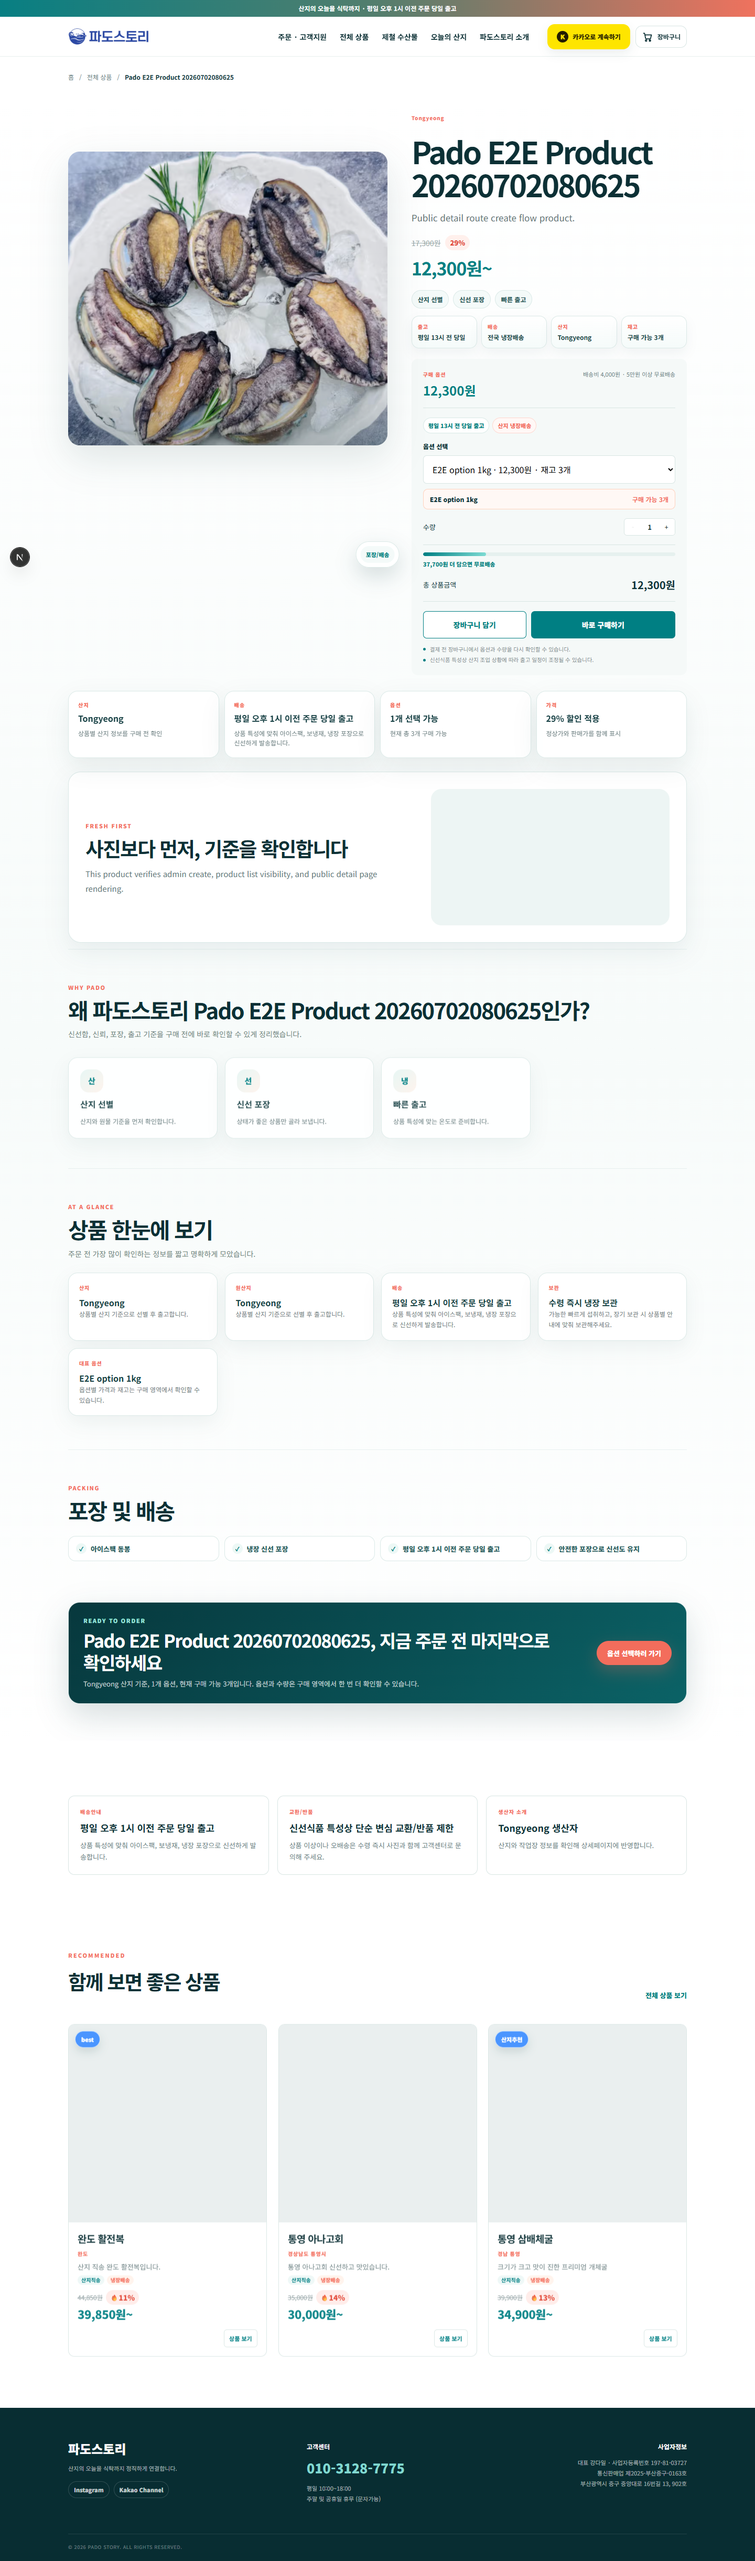
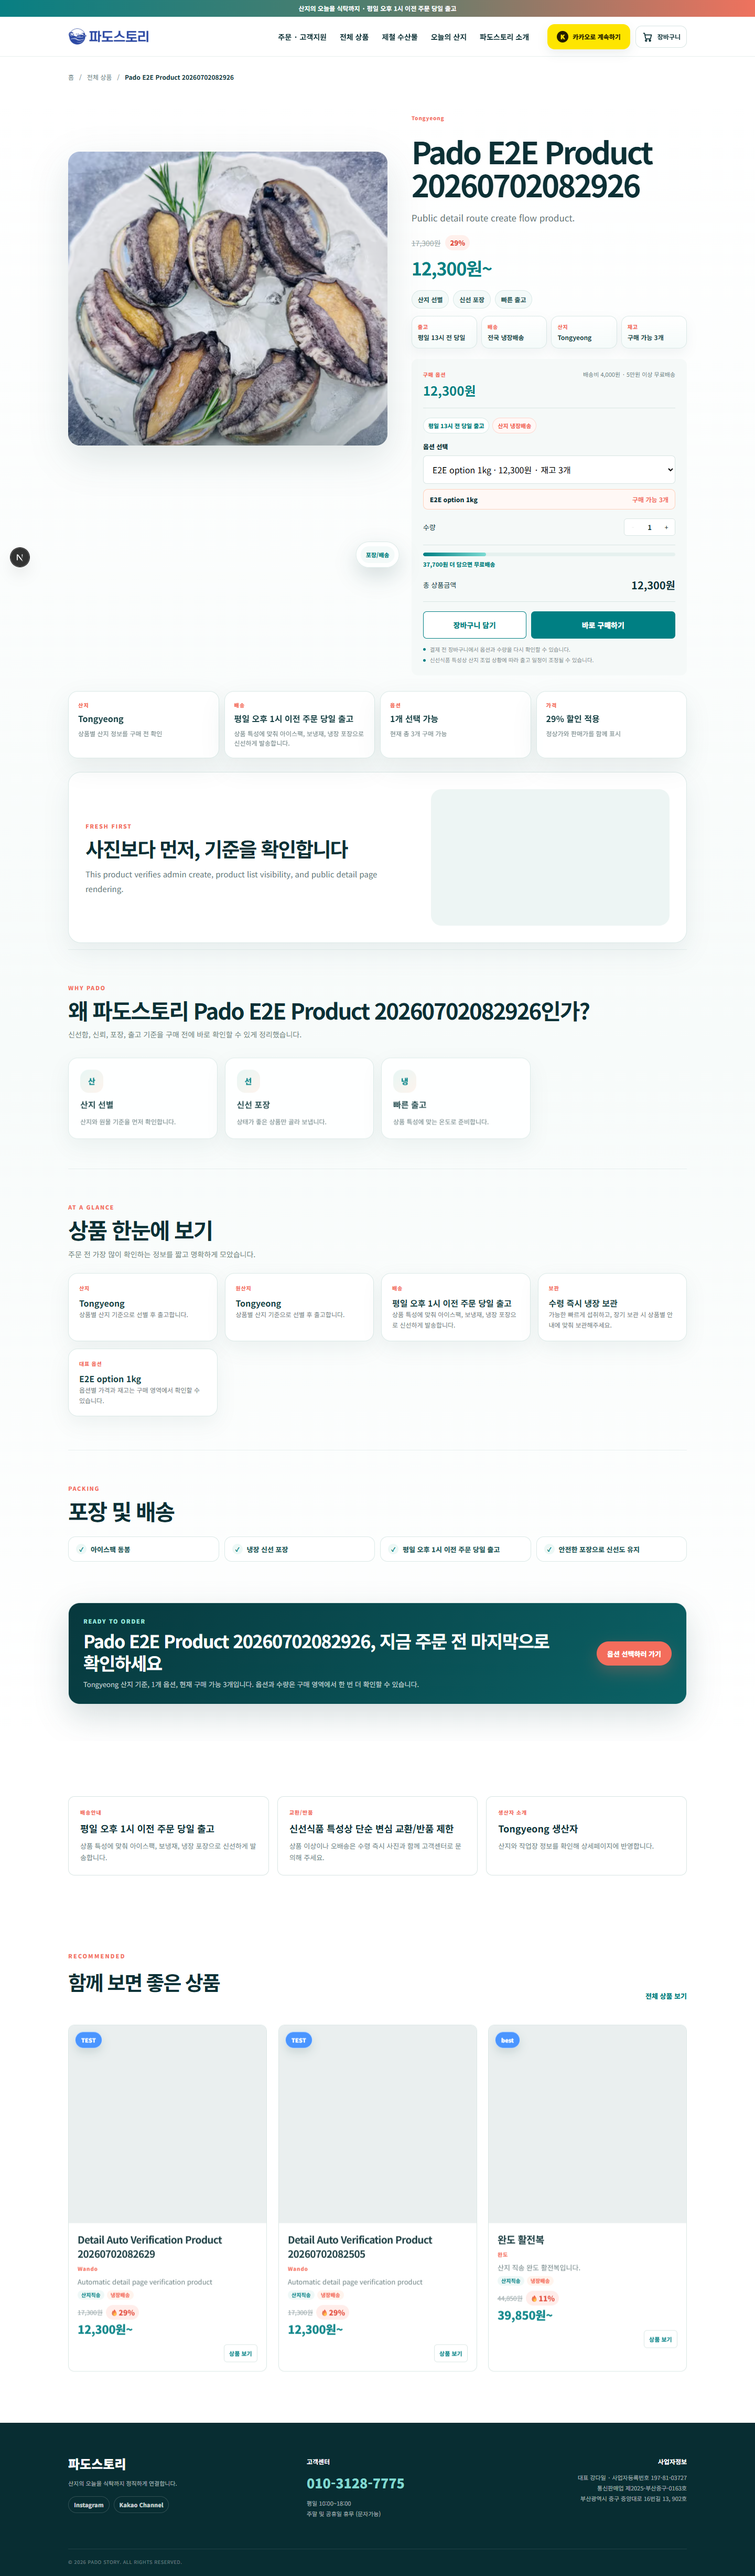
Allow admin preview for private products

diff --git a/app/products/[slug]/page.tsx b/app/products/[slug]/page.tsx
@@ -6,7 +6,9 @@ import { ProductCard } from "@/components/products/ProductCard";
 import { ProductDetailTemplate } from "@/components/products/ProductDetailTemplate";
 import { StickyPurchaseBar } from "@/components/products/StickyPurchaseBar";
 import type { Product } from "@/data/products";
+import { getAdminSession } from "@/lib/auth/admin";
 import { getProductBySlug, getProducts } from "@/lib/products";
+import { isPublicProductSlug } from "@/lib/products/public-slug";
 
 export const dynamic = "force-dynamic";
 
@@ -74,7 +76,8 @@ function JsonLdScript({ data }: { data: Record<string, unknown> }) {
 
 export async function generateMetadata({ params }: { params: Promise<{ slug: string }> }): Promise<Metadata> {
   const { slug } = await params;
-  const product = await getProductBySlug(slug);
+  const adminSession = await getAdminSession();
+  const product = await getProductBySlug(slug, { includePrivate: adminSession.ok });
 
   if (!product) {
     return { title: "상품을 찾을 수 없습니다" };
@@ -83,10 +86,12 @@ export async function generateMetadata({ params }: { params: Promise<{ slug: str
   const description = buildSeoDescription(product);
   const productPath = `/products/${product.slug}`;
   const title = `${product.name} | ${product.origin} 산지직송 수산물`;
+  const isPrivatePreview = adminSession.ok && (!product.isActive || !isPublicProductSlug(product.slug));
 
   return {
     title,
     description,
+    robots: isPrivatePreview ? { index: false, follow: false } : undefined,
     alternates: {
       canonical: productPath
     },
@@ -105,10 +110,42 @@ export async function generateMetadata({ params }: { params: Promise<{ slug: str
   };
 }
 
+function AdminPreviewNotice({ product }: { product: Product }) {
+  const reason = !product.isActive ? "숨김 상태" : "검증 상태";
+  return (
+    <div className="shell admin-product-preview-notice" role="status">
+      <strong>관리자 미리보기</strong>
+      <span>이 상품은 현재 {reason}입니다. 관리자만 볼 수 있으며 일반 고객 상품 목록에는 노출되지 않습니다.</span>
+      <a href="/admin/products">관리자 목록으로 돌아가기</a>
+    </div>
+  );
+}
+
+function AdminProductUnavailable({ slug }: { slug: string }) {
+  return (
+    <div className="page-wrap">
+      <div className="shell admin-product-unavailable">
+        <strong>관리자 확인 필요</strong>
+        <h1>상품 상세페이지를 열 수 없습니다.</h1>
+        <p>
+          요청한 slug `{slug}` 상품을 찾지 못했습니다. 상품이 삭제되었거나 slug가 변경되었을 수 있습니다.
+          관리자 상품 목록에서 실제 slug를 다시 확인해주세요.
+        </p>
+        <a className="button teal" href="/admin/products">관리자 상품 목록</a>
+      </div>
+    </div>
+  );
+}
+
 export default async function ProductDetailPage({ params }: { params: Promise<{ slug: string }> }) {
   const { slug } = await params;
-  const product = await getProductBySlug(slug);
-  if (!product) notFound();
+  const adminSession = await getAdminSession();
+  const product = await getProductBySlug(slug, { includePrivate: adminSession.ok });
+  if (!product) {
+    if (adminSession.ok) return <AdminProductUnavailable slug={slug} />;
+    notFound();
+  }
+  const isPrivatePreview = adminSession.ok && (!product.isActive || !isPublicProductSlug(product.slug));
 
   const recommended = (await getProducts())
     .filter((item) => item.slug !== product.slug)
@@ -117,6 +154,7 @@ export default async function ProductDetailPage({ params }: { params: Promise<{ 
     <div className="detail-page">
       <JsonLdScript data={buildProductJsonLd(product)} />
       <JsonLdScript data={buildBreadcrumbJsonLd(product)} />
+      {isPrivatePreview && <AdminPreviewNotice product={product} />}
 
       <div className="shell breadcrumb">
         <Link href="/">홈</Link>

diff --git a/app/globals.css b/app/globals.css
@@ -263,3 +263,5 @@
 @media(max-width:700px){.product-admin-table td.admin-empty-filter-cell{display:block}.product-admin-table td.admin-empty-filter-cell:before{content:""}.admin-empty-filter{padding:28px 12px}.admin-empty-filter button{width:100%;min-height:38px}}
 .admin-submit-debug{margin:0 18px 18px;padding:13px 14px;border:1px dashed #87c9c4;border-radius:12px;background:#f6fffd;color:#173f43;font-size:11px}.admin-submit-debug strong{display:block;margin-bottom:9px;color:var(--teal);font-size:12px}.admin-submit-debug dl{display:grid;grid-template-columns:repeat(3,minmax(0,1fr));gap:7px;margin:0}.admin-submit-debug div{min-width:0;border:1px solid #d9eeeb;border-radius:8px;background:#fff;padding:7px}.admin-submit-debug div.wide{grid-column:1/-1}.admin-submit-debug dt{color:#73898a;font-weight:900}.admin-submit-debug dd{margin:3px 0 0;overflow-wrap:anywhere;font-weight:800}
 .admin-duplicate-slug-action{display:flex;align-items:center;justify-content:space-between;gap:12px;margin-top:10px;padding:12px;border:1px solid #ffd2be;border-radius:10px;background:#fff8f5;color:#a84425}.admin-duplicate-slug-action span{font-size:12px;font-weight:850;line-height:1.45}.admin-duplicate-slug-action .button{flex:none;padding:10px 13px}.admin-detail-link{width:max-content;margin-top:10px;padding:10px 13px}.admin-actions a{display:inline-flex;align-items:center;justify-content:center;border:1px solid var(--line);border-radius:7px;background:#fff;color:var(--teal);padding:7px 9px;font-size:11px;font-weight:900}
+.admin-product-preview-notice{display:flex;align-items:center;gap:12px;margin-top:18px;margin-bottom:8px;border:1px solid #ffd2be;border-radius:12px;background:#fff8f5;color:#8f3f25;padding:13px 15px}.admin-product-preview-notice strong{flex:none;color:#bd512f;font-size:12px;font-weight:950}.admin-product-preview-notice span{font-size:12px;font-weight:800;line-height:1.45}.admin-product-preview-notice a{margin-left:auto;border:1px solid #ffd2be;border-radius:999px;background:#fff;color:#a84425;padding:8px 11px;font-size:11px;font-weight:950}.admin-product-unavailable{display:grid;gap:13px;margin-top:70px;margin-bottom:90px;border:1px solid #dbe9e7;border-radius:18px;background:#fff;padding:34px;box-shadow:0 18px 44px rgba(7,48,53,.08)}.admin-product-unavailable strong{color:var(--coral);font-size:12px;font-weight:950}.admin-product-unavailable h1{margin:0;font-size:30px;letter-spacing:-.04em}.admin-product-unavailable p{max-width:680px;margin:0;color:var(--muted);font-size:14px;line-height:1.8}.admin-product-unavailable .button{width:max-content}
+@media(max-width:700px){.admin-product-preview-notice{align-items:flex-start;flex-direction:column;margin-top:12px;padding:12px}.admin-product-preview-notice a{margin-left:0;width:100%;text-align:center}.admin-product-unavailable{margin-top:36px;padding:24px}.admin-product-unavailable h1{font-size:24px}.admin-product-unavailable .button{width:100%}}

diff --git a/lib/products.ts b/lib/products.ts
@@ -1,6 +1,7 @@
 import { products as fallbackProducts, type Product, type ProductOption } from "@/data/products";
 import { normalizeProductDetailInput } from "@/lib/products/detail";
 import { isPublicProductSlug } from "@/lib/products/public-slug";
+import { createAdminClient, hasSupabaseAdminEnv } from "@/lib/supabase/admin";
 import { createClient } from "@/lib/supabase/server";
 
 type ProductRow = {
@@ -107,18 +108,42 @@ export async function getProducts(): Promise<Product[]> {
   }
 }
 
-export async function getProductBySlug(slug: string): Promise<Product | undefined> {
-  if (!isPublicProductSlug(slug)) return undefined;
+export async function getProductBySlug(slug: string, options: { includePrivate?: boolean } = {}): Promise<Product | undefined> {
+  const includePrivate = Boolean(options.includePrivate);
+  if (!includePrivate && !isPublicProductSlug(slug)) return undefined;
   if (!hasSupabaseEnv()) return fallbackProducts.find((product) => product.slug === slug);
 
   try {
+    if (includePrivate && hasSupabaseAdminEnv()) {
+      const supabase = createAdminClient();
+      const { data: productRow, error: productError } = await supabase
+        .from("products")
+        .select("*")
+        .eq("slug", slug)
+        .maybeSingle();
+
+      if (productError || !productRow) return undefined;
+
+      const { data: optionRows } = await supabase
+        .from("product_options")
+        .select("id, name, price_delta, stock")
+        .eq("product_id", productRow.id)
+        .order("created_at", { ascending: true });
+
+      return toProduct({ ...(productRow as ProductRow), product_options: (optionRows ?? []) as OptionRow[] });
+    }
+
     const supabase = await createClient();
-    const { data, error } = await supabase
+    let query = supabase
       .from("products")
       .select("*, product_options(id, name, price_delta, stock)")
-      .eq("slug", slug)
-      .eq("is_active", true)
-      .single();
+      .eq("slug", slug);
+
+    if (!includePrivate) {
+      query = query.eq("is_active", true);
+    }
+
+    const { data, error } = await query.single();
 
     if (error || !data) {
       const products = await getProducts();

diff --git a/components/admin/AdminProductBuilder.tsx b/components/admin/AdminProductBuilder.tsx
@@ -184,7 +184,7 @@ export function AdminProductBuilder({
   const [draftStatus, setDraftStatus] = useState("");
   const [toastMessage, setToastMessage] = useState("");
   const [draftReady, setDraftReady] = useState(!draftStorageKey);
-  const [submitDebug, setSubmitDebug] = useState<SubmitDebugState>({ mountedAt: debugTime(), clickCount: 0 });
+  const [submitDebug, setSubmitDebug] = useState<SubmitDebugState>({ mountedAt: "-", clickCount: 0 });
   const firstInvalidRef = useRef<HTMLInputElement | HTMLTextAreaElement | null>(null);
   const showSubmitDebug = process.env.NODE_ENV !== "production";
 

diff --git a/WORKLOG.md b/WORKLOG.md
@@ -766,3 +766,22 @@
 - `pnpm run verify:detail-json` 성공
 - `pnpm run verify:admin` 성공
 - 중복 slug -> 테스트 URL 자동 생성 -> 재저장 -> 목록 최상단 표시 -> 상세페이지 200 확인
+## 2026-07-02 관리자 전용 검증/숨김 상품 상세페이지 preview 라우팅 개선
+### 완료 작업
+
+- `/products/[slug]` 상세 조회를 고객용 공개 조회와 관리자 preview 조회로 분리했습니다.
+- 관리자 로그인 상태에서는 검증 상품, 테스트 상품, 숨김 상품도 실제 상세페이지 템플릿으로 확인할 수 있게 했습니다.
+- 일반 고객/비로그인 상태에서는 검증/숨김 상품이 계속 404로 유지되도록 정책을 확인했습니다.
+- 관리자 preview 상품에는 `관리자 미리보기` 안내 배너를 표시하고, 검색엔진 색인을 막도록 metadata robots를 보강했습니다.
+- 상세 조회에서 비활성 상품을 안정적으로 읽기 위해 관리자 preview 경로는 서비스 롤 클라이언트로 상품/옵션을 분리 조회하도록 개선했습니다.
+- 관리자 목록의 `상세보기` 버튼이 실제 `/products/{slug}`로 이동하는지 자동 검증에 포함했습니다.
+- `verify:admin-private-detail` 검증 스크립트를 추가하고 `verify:admin` 체인에 포함했습니다.
+- 관리자 등록 Submit Debug 초기 시간이 SSR/클라이언트 hydration mismatch를 만들던 문제를 수정했습니다.
+
+### 검증
+- `pnpm run build` 성공
+- `pnpm run verify:detail-json` 성공
+- `pnpm run verify:admin-new-click` 성공
+- `pnpm run verify:admin` 성공
+- 관리자 검증 상품 상세 200 / 고객 검증 상품 상세 404 확인
+- 관리자 숨김 상품 상세 200 / 고객 숨김 상품 상세 404 확인

diff --git a/TEST_REPORT.md b/TEST_REPORT.md
@@ -837,3 +837,25 @@
 ### 생성된 검증 케이스
 
 - `scripts/verify-admin-duplicate-test-slug.mjs`
+## 2026-07-02 관리자 전용 상세 preview 라우팅 검증
+
+### 검증 범위
+
+- 관리자 로그인 상태에서 검증/test slug 상품 상세페이지 200
+- 일반 고객 상태에서 검증/test slug 상품 상세페이지 404
+- 관리자 로그인 상태에서 숨김 상품 상세페이지 200
+- 일반 고객 상태에서 숨김 상품 상세페이지 404
+- 관리자 상품 목록 `상세보기` 링크가 실제 `/products/{slug}`로 연결되는지 확인
+- 관리자 preview 안내 배너 표시 확인
+- Submit Debug 시간 표시 hydration mismatch 제거 확인
+
+### 결과
+
+- `pnpm run build`: 성공
+- `pnpm run verify:detail-json`: 성공
+- `pnpm run verify:admin-new-click`: 성공
+- `pnpm run verify:admin`: 성공
+
+### 생성된 검증 케이스
+
+- `scripts/verify-admin-private-detail.mjs`
